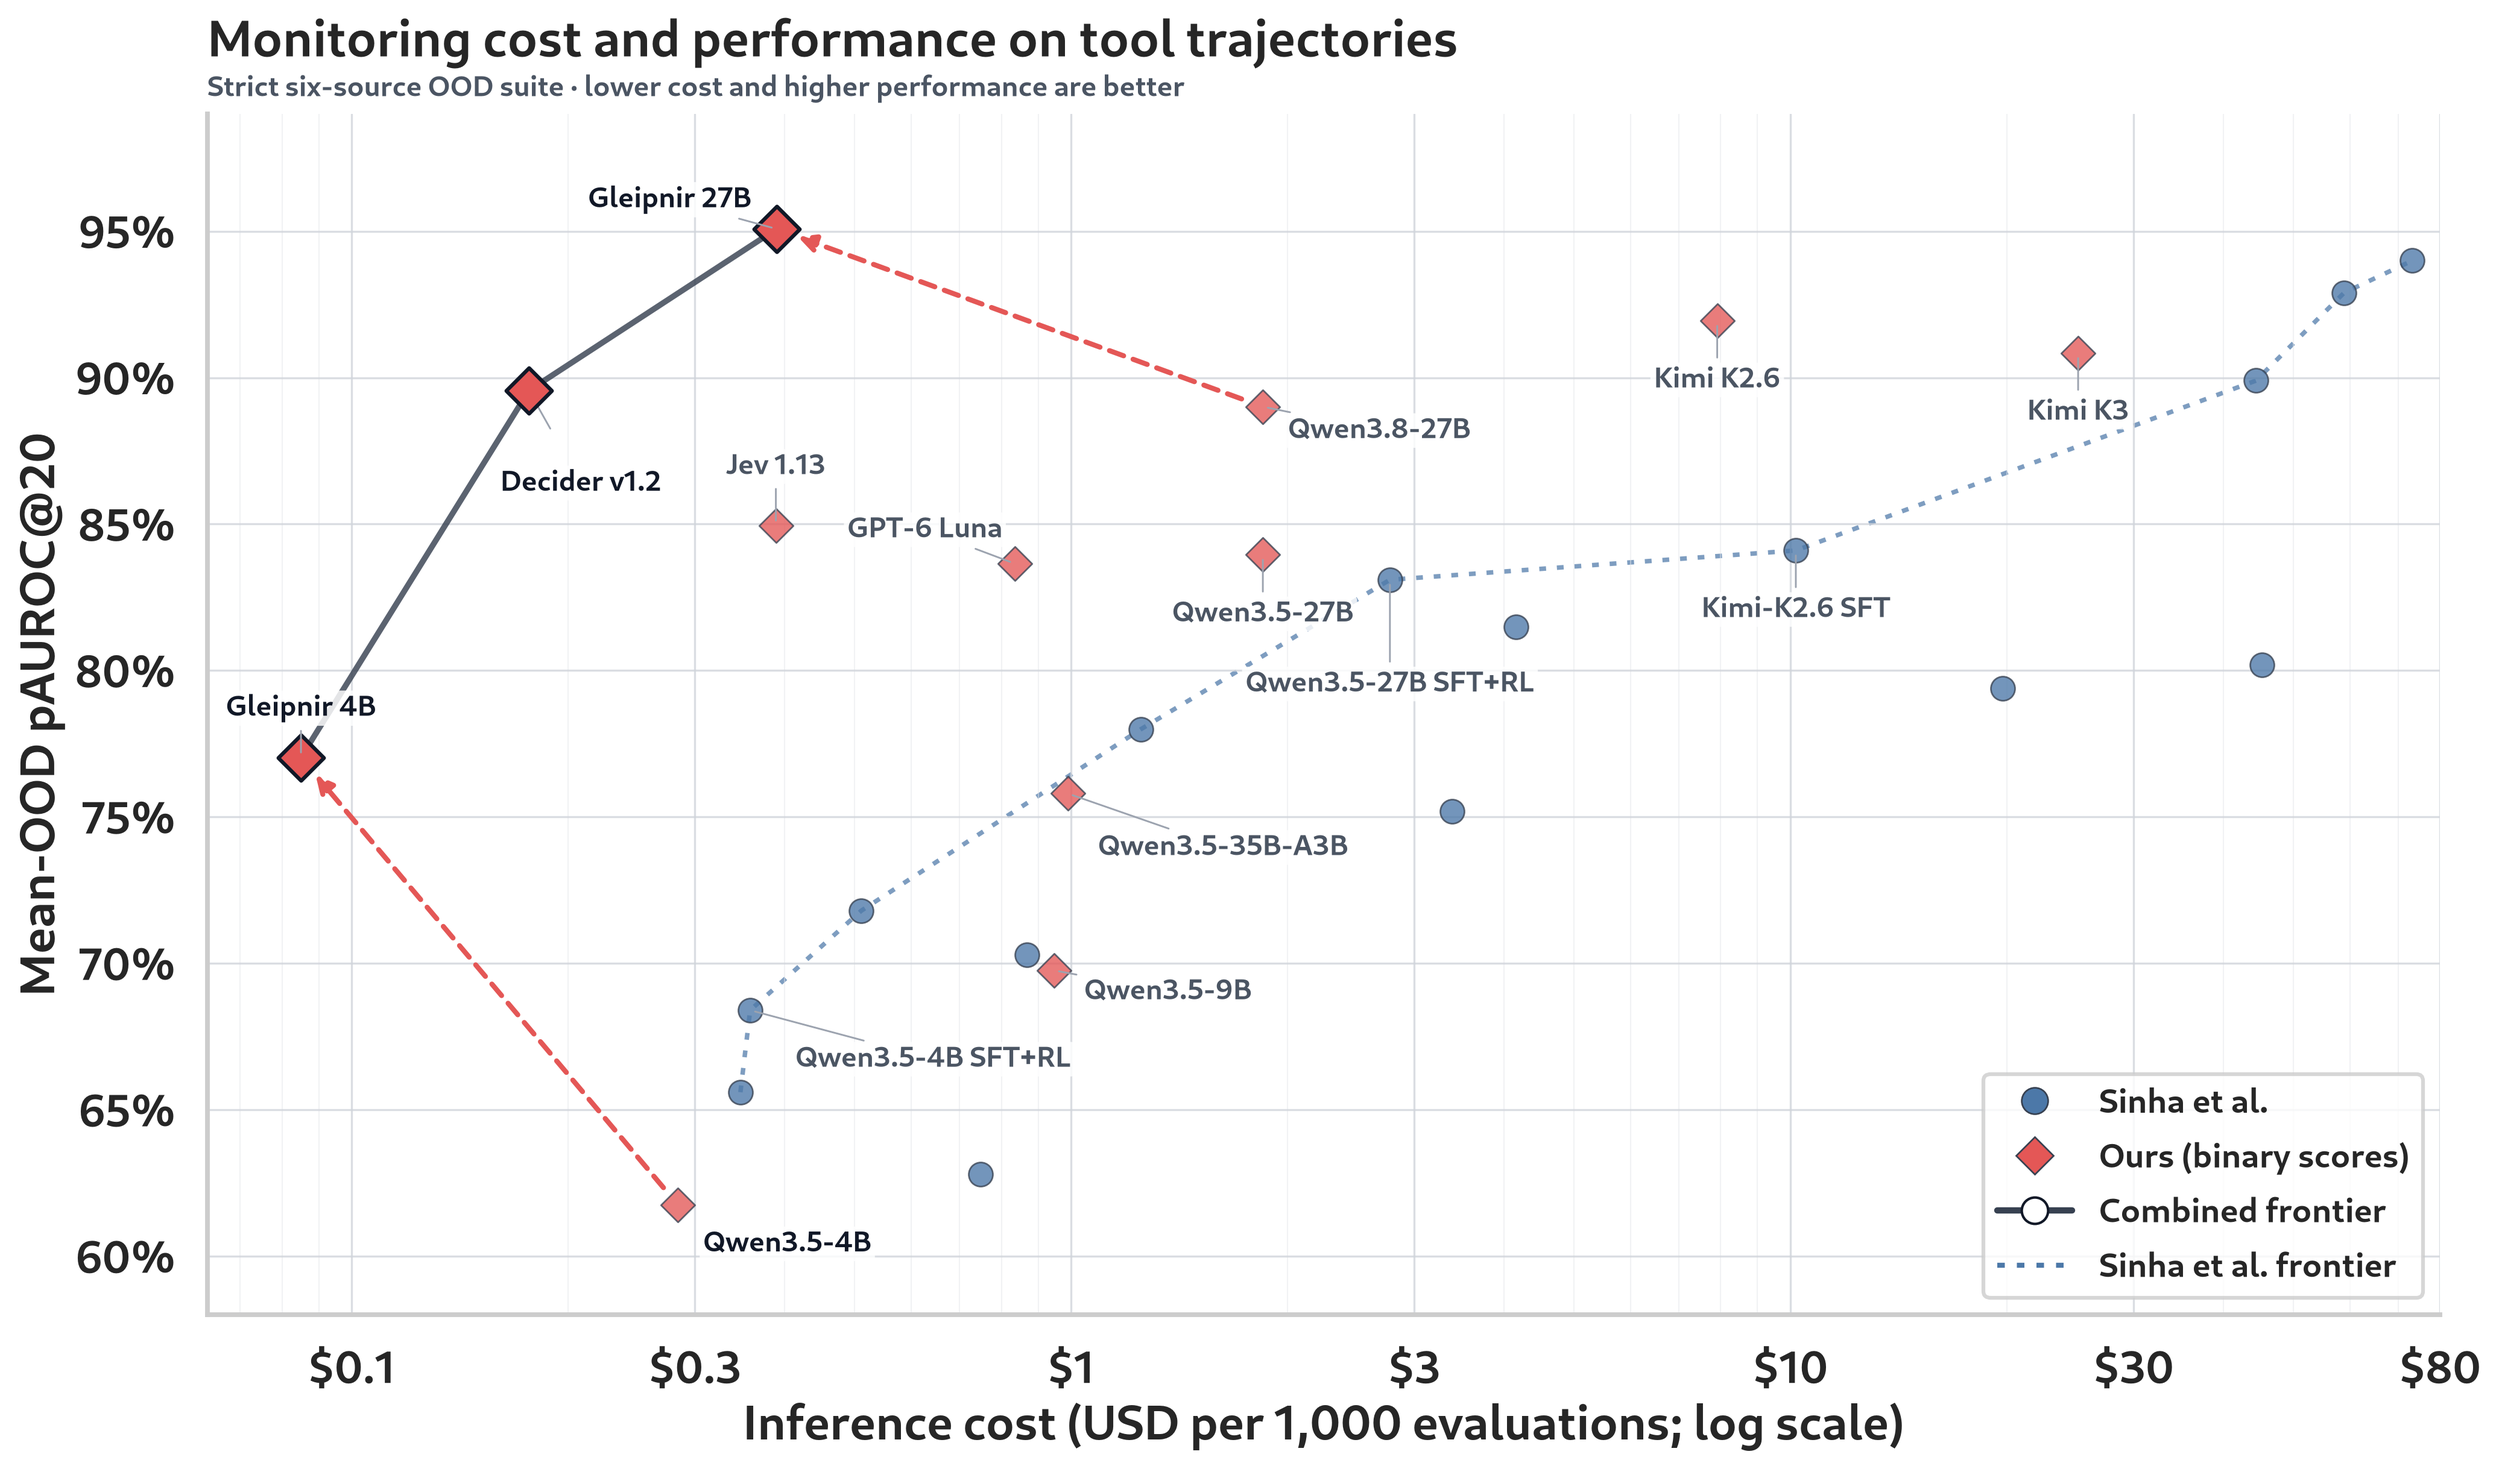
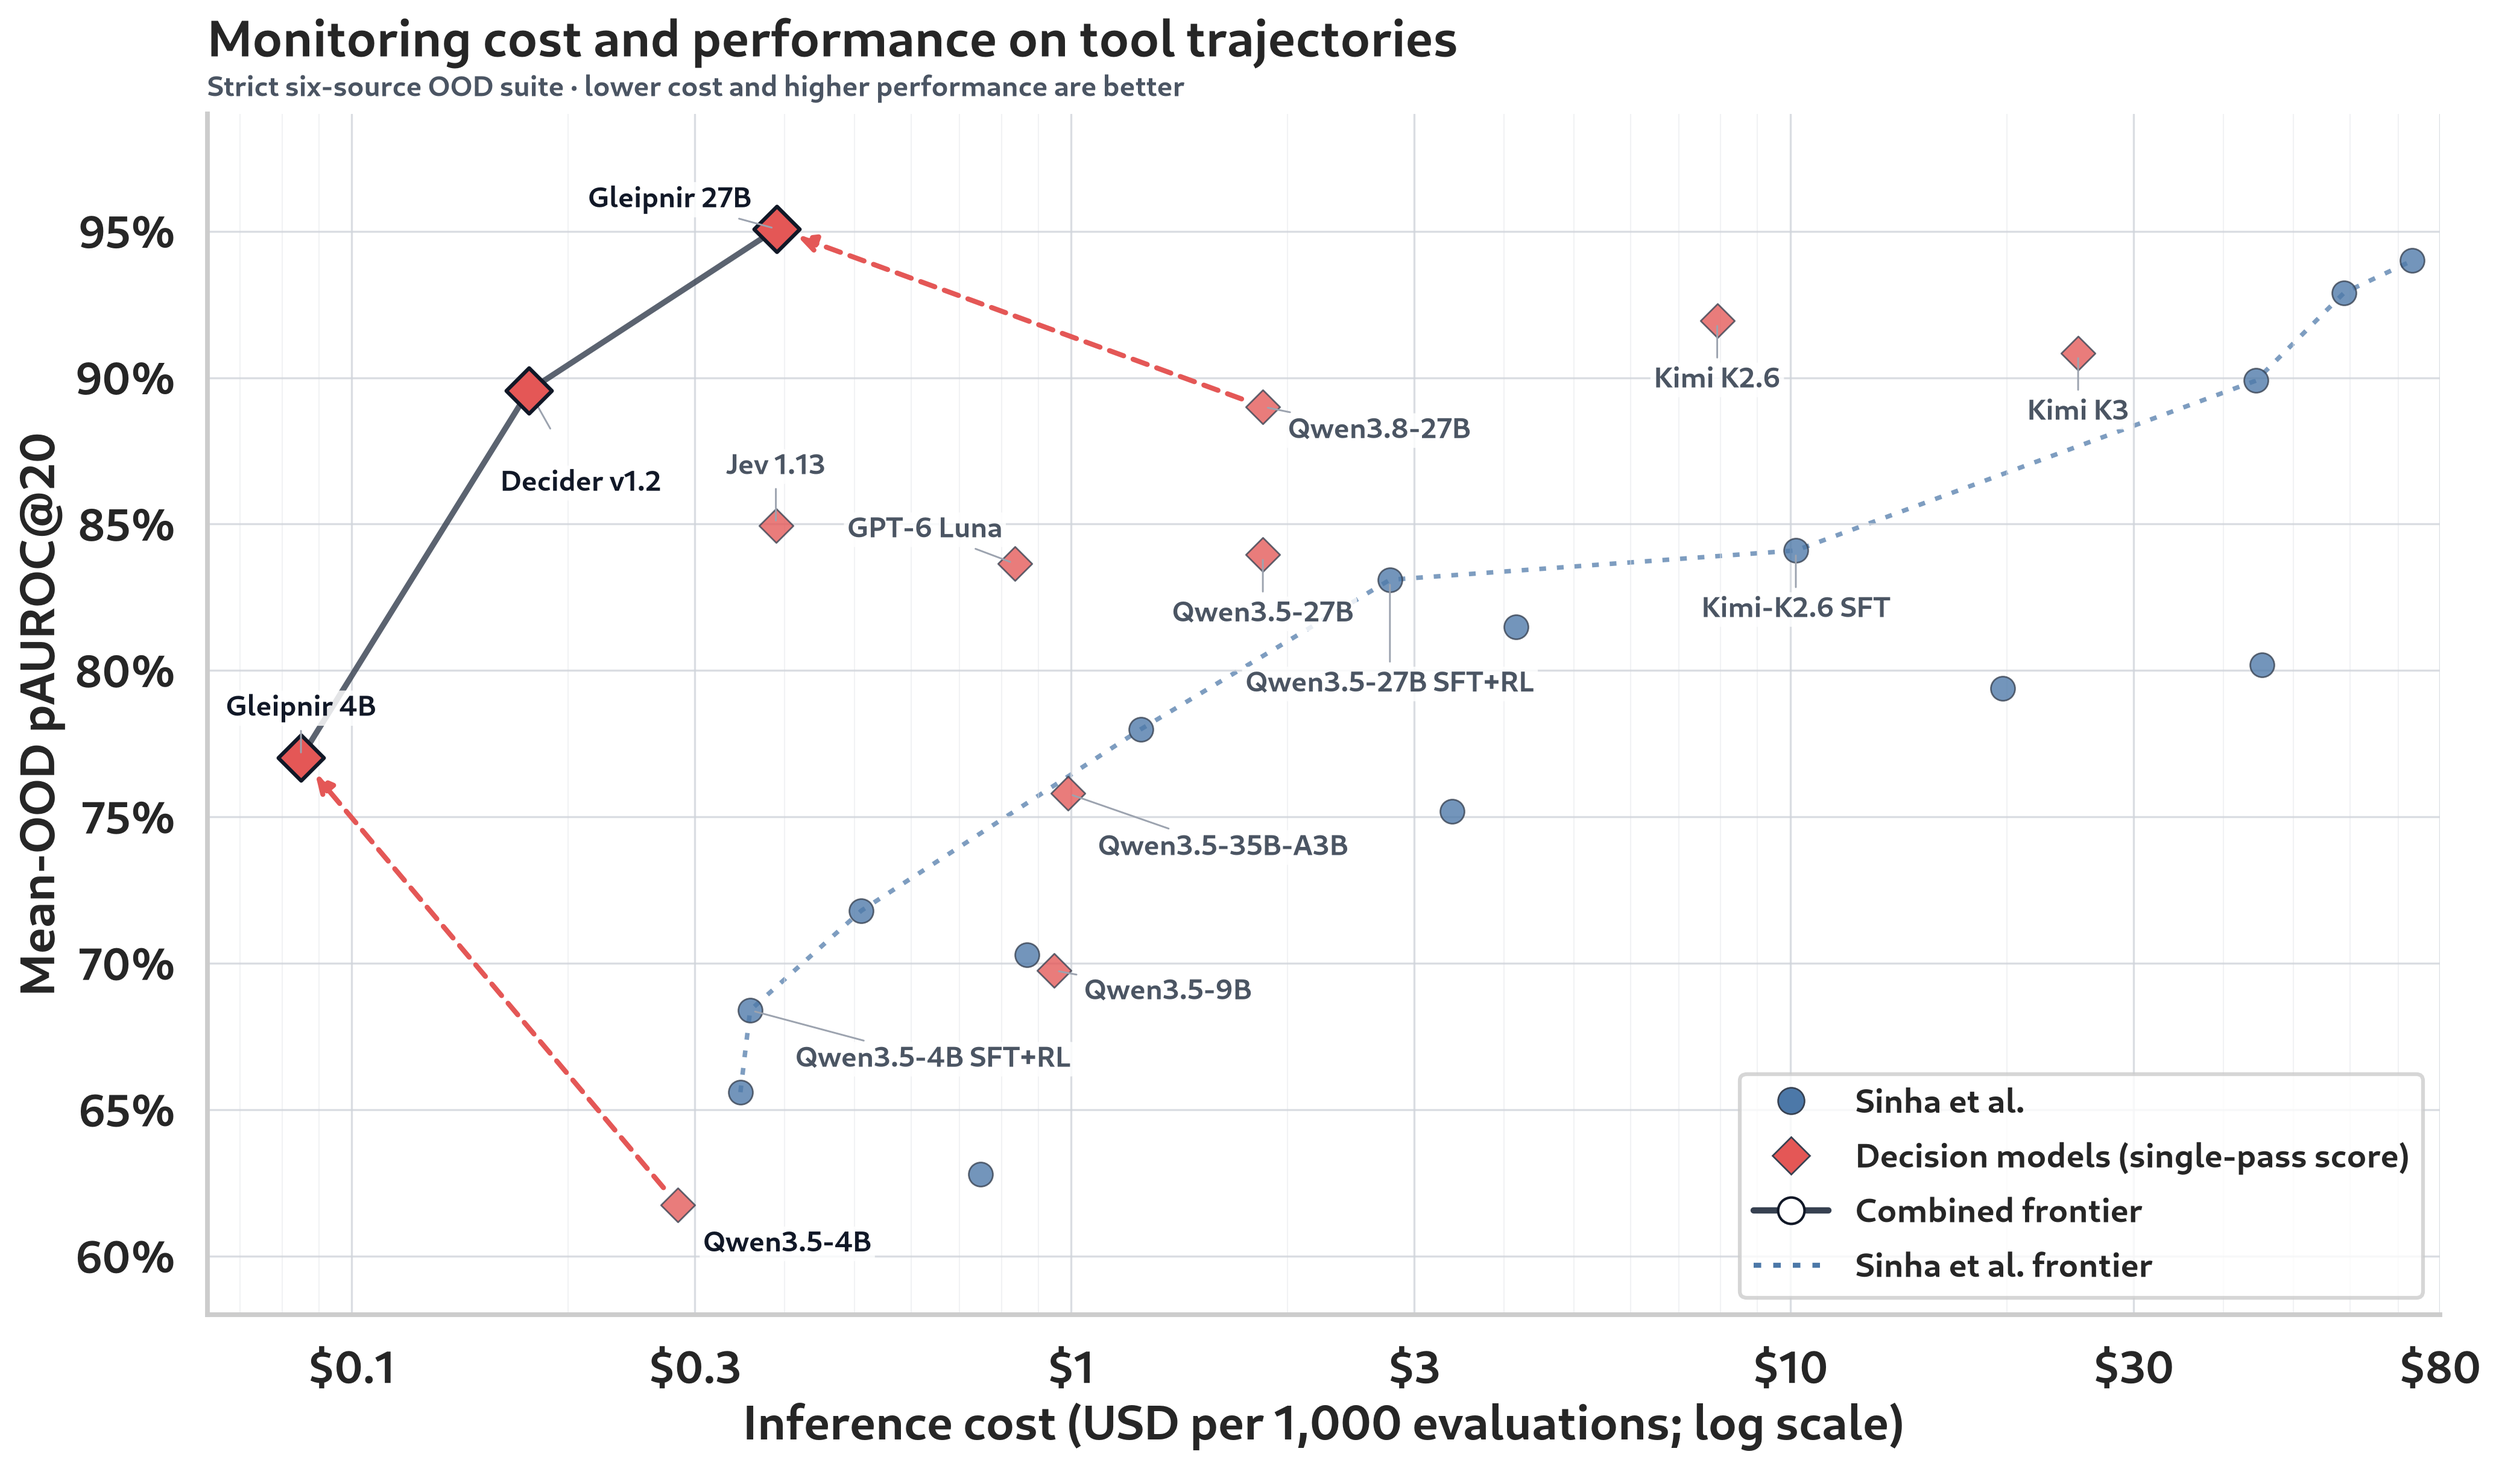
Label single-pass scorers as decision models in the frontier legend

Changed region(s): [[0.6848, 0.7173, 0.965, 0.8732]]

diff --git a/scripts/plot_tool_trajectory_ood_frontier.py b/scripts/plot_tool_trajectory_ood_frontier.py
@@ -479,7 +479,10 @@ def plot_frontier(frame: pd.DataFrame) -> plt.Figure:
     axis.grid(which="major", color="#D1D5DB", linewidth=0.8, alpha=0.8)
     axis.grid(which="minor", axis="x", color="#E5E7EB", linewidth=0.5, alpha=0.5)
 
-    origin_labels = {"Paper": "Sinha et al.", "Gleipnir": "Ours (binary scores)"}
+    origin_labels = {
+        "Paper": "Sinha et al.",
+        "Gleipnir": "Decision models (single-pass score)",
+    }
     legend_handles = [
         Line2D(
             [],
